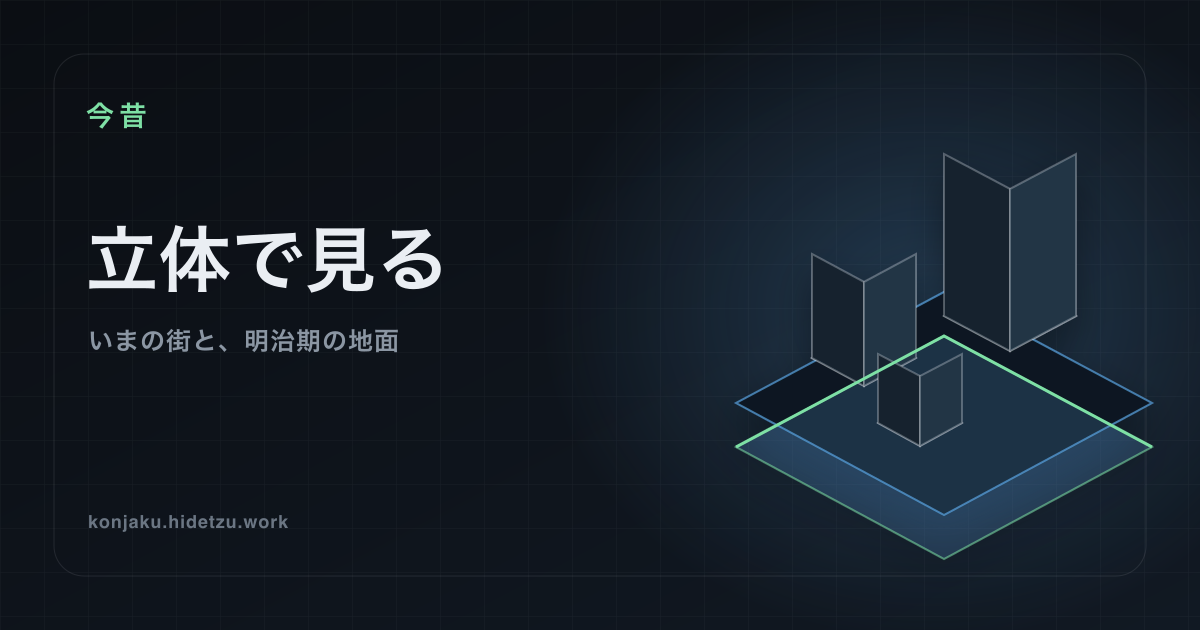
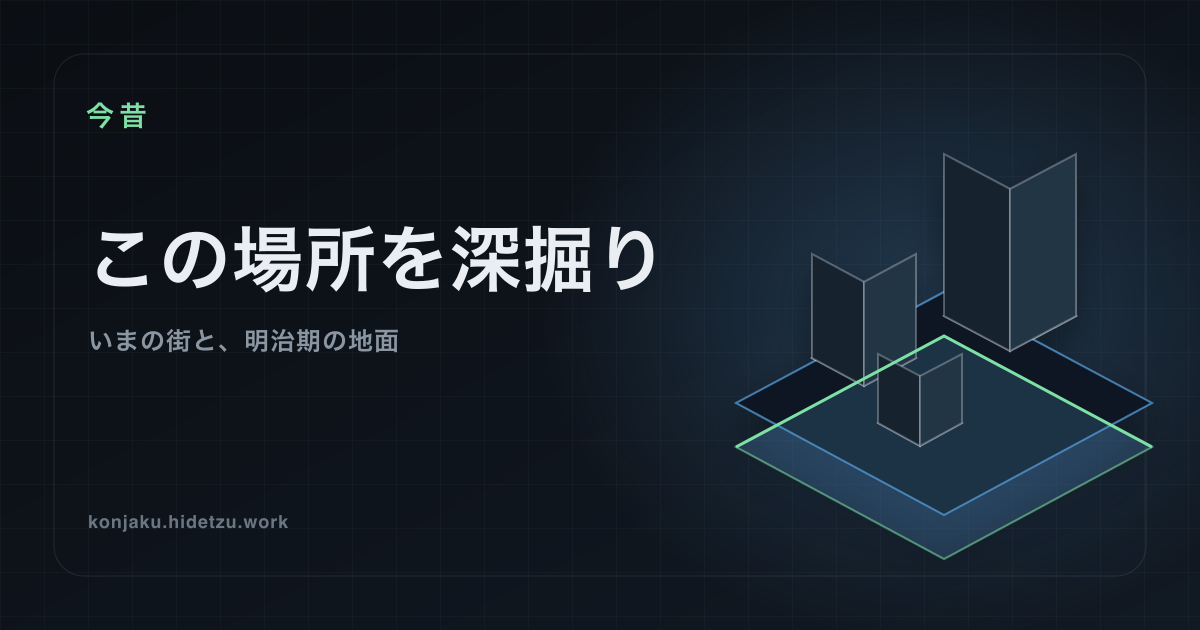
fix(3d): 「まだ用意していない」を「取得できなかった」と言わない (#54)
* fix(3d): 「まだ用意していない」を「取得できなかった」と言わない

⚠ #53 の前提そのものを直す。オーナー指摘（2026-08-18）:
「下地が無くてもクリックできて、出せない情報は出さない。
  システム側の情報が未登録である、という振る舞いのほうが自然ではないか」。

## 何が起きていたか

`loadBuildingTiles()` が **4 つの別々の理由を全部 null に潰していた**。
受け手はそれを 1 つの文にしていたので、**一度も取り込んでいない名古屋で
「建物データを取得できませんでした（Overpass 混雑）」**と書いていた。

⚠ 利用者役 3 名にスクショだけを見せて聞いた（実在の利用者ではない）:
- **3/3 が「自分の通信のせい」と読んだ。** 2 名は「押し直す／リロードする」
- **3/3 が「まだ用意できていません」なら意味が変わる**と答えた
- **3/3 が「案A（導線を出さない）では機能の存在に気づけない」**と答えた

## 直したもの

- 建物の状態を 4 つに分けた
  用意してある / **まだ用意していない** / 用意はあるが読めない / 索引を読めない
  ⚠ `bldState` に `notyet` を足した。`fail` と混ぜない
- 台帳（#prov）の語彙に「未収録」を足した。「未取得（届いていない）」とは別のこと
- ⚠ **トップの導線は常に出す。#53 の出し分けを戻した。**
  消すと「まだ用意していない」が「この場所には機能そのものが無い」に見える
- ⚠ そのかわり**押す前に**断る（「押して、待たされてから言われるのが最悪」という指摘）
- ⚠ 索引そのものを読めないときは**何も断らない**（取得できなかった ≠ 用意していない）
- Overpass 経路は残した。名古屋で 5,845 件が実際に返った実測があり、消すと出せる
  情報が減る。⚠ ただし**先に「まだ用意していません」と言ってから**問い合わせる

## 掟に 1 行足した（CLAUDE.md §1）

    まだ用意していない  ≠  取得できなかった

⚠ 前者はこちらの都合、後者は相手や回線の都合。利用者にとっては
「押し直すべきか・待つべきか・諦めるべきか」が変わる。

## 検査

静的 133 件（増減なし）／実描画 111→112 件（core 102→103）。
- 「3D の下地が無い場所には、深掘りの導線を出さない」を
  「まだ用意していない場所を、取得できなかったと言わない」へ置き換えた
- 「まだ用意していない場所で、通信のせいにしない」（/peel 側）を足した
⚠ 3 通りにわざと壊して、狙った文言で落ちることを確かめた
  （旧文言に戻す／押す前の断りを消す／導線をまた隠す）。

## ⚠ 残したもの

利用者役 3/3 が「名古屋は 1.7%（水）より **田 97.0%** が主役であるべき」と言った。
⚠ **この PR に入れない。** 判定文の見せ方（案C）と同じ話で、理由が 2 つ混ざる。

* fix(3d): できないことから書き始めず、画面名も「この場所を深掘り」にそろえる

⚠ オーナー指摘 2 件（2026-08-18）と、利用者役 3 名の回答を受けた直し。

## 1. 実装の不具合: 台帳だけ「取得中」のままだった
[…]

Changed region(s): [[0.0617, 0.3619, 0.555, 0.4825]]

diff --git a/public/peel3d.js b/public/peel3d.js
@@ -184,26 +184,42 @@ let blAt=null, blTrunc=false;
 //   ここに書き写すと、**トップが「深掘りできる」と言った場所で、こちらが
 //   Overpass に落ちる**状態を作れてしまう。
 //   ⚠ peel.html が ground.js を peel3d.js より先に読み込んでいる。
+// ⚠ **「答えられなかった」を1つに潰さない**（2026-08-18）。
+//   以前はここが 4 つの別々の理由を全部 `null` で返していた。
+//   受け手はそれを「取得できませんでした（Overpass 混雑）」と1つの文にしていたので、
+//   **一度も取り込んでいない場所で「混雑のせい」と書いていた**（実測: 名古屋）。
+//   利用者役 3/3 が、その文を「自分の通信のせい」と読み、2 名が押し直すと答えた。
+//
+//   ⚠ このリポジトリが何度も直してきた並びに、1 行足りていなかった:
+//       まだ用意していない  ≠  取得できなかった
+//   前者は**こちらの都合**、後者は**相手や回線の都合**。
+//   利用者にとっては「押し直すべきか」が変わるので、意味がまるで違う。
+const BL_OK="ok", BL_ABSENT="absent", BL_UNREACHABLE="unreachable",
+      BL_UNKNOWN="unknown", BL_STALE="stale";
 async function loadBuildingTiles(bbox){
   await KonjakuGround.load();
+  const known=KonjakuGround.hasSync((bbox.w+bbox.e)/2,(bbox.s+bbox.n)/2);
+  // 索引そのものを読めていない。⚠ 「無い」と言わない
+  if(known===null) return { state:BL_UNKNOWN };
   const spec=KonjakuGround.tilesFor(bbox);   // 1枚でも欠けたら null（静的では答えない）
-  if(!spec) return null;
+  if(!spec) return { state:BL_ABSENT };      // ⚠ **未登録**。こちらがまだ用意していない
   const got=await Promise.all(spec.keys.map(k=>{
     const [x,y]=k.split("/");
     const path=spec.tile.replace("{x}",x).replace("{y}",y);
     return fetch(path).then(r=>r.ok?r.json():null).catch(()=>null);
   }));
-  if(got.some(g=>!g)) return null;
+  // 索引は「見た」と言っているのに読めない。⚠ こちらの配信の問題で、未登録ではない
+  if(got.some(g=>!g)) return { state:BL_UNREACHABLE };
   const features=[]; let at=null, truncated=false;
   for(const g of got){
     // ⚠ 詰めた形（現行版）でないものは使わない。GeoJSON のまま配っていた古いファイルが
     //   残っていたら、静かに混ぜるより Overpass の道に落ちたほうがよい
-    if(g.v!==BL_V) return null;
+    if(g.v!==BL_V) return { state:BL_STALE };
     features.push(...unpackBuildings(g));
     if(!at||(g.at&&g.at<at)) at=g.at;      // いちばん古い区画に合わせる
     if(g.truncated) truncated=true;
   }
-  return { features, at, truncated };
+  return { state:BL_OK, features, at, truncated };
 }
 // 詰めた建物を戻す。⚠ 詰める側は scripts/bl-format.mjs。**必ず対で直す**。
 //   片方だけ直すと、建物の形が静かにずれる（画面は何も言わない）。
@@ -719,7 +735,8 @@ async function loadArea(lon,lat,title,opt){
   //   以前は「この範囲に1件も無い」を `feats=null` に潰していたので、
   //   正常に 0 件と確認できた事実が「未取得」に化け、画面は同時に
   //   「建物 0 件を判定しました」「建物を取得中…」「欠落 取得できていない」を出していた。
-  //   状態は area.bldState（loading / ok / fail）が1つだけ持つ
+  //   状態は area.bldState（loading / ok / notyet / fail）が1つだけ持つ
+  //   ⚠ notyet = **こちらがまだ用意していない**。fail = 用意はあるが取れなかった。混ぜない
   //   （掟: 同じ問いに答える実装を2つ持たない。以前は pending と source:"none" の2つで表していた）。
   let feats=null, viaPre=false, bldSource=null;
   // ⚠ まずタイル索引を見る。取り込んであれば Overpass に出ない。
@@ -727,7 +744,10 @@ async function loadArea(lon,lat,title,opt){
   //   索引の単位は z14 で、ev（年つきの事物）とは**別の索引**。潰すと
   //   「建物が見たタイル」が「事物も見た」ことになる。
   const bl=await loadBuildingTiles(bbox);
-  if(bl){
+  // ⚠ **なぜ静的で答えられなかったか**を、最後まで持ち回る。
+  //   ここで捨てると、失敗の文が「混雑のせい」に化ける
+  const blWhy=bl.state;
+  if(bl.state===BL_OK){
     // ⚠ タイルは z14 の全面なので、集計したい範囲より広い。
     //   そのまま数えると「豊洲の建物の◯%」が、豊洲ではない範囲の割合になる。
     //   実測で 99.4% → 40.9% に化けた（隣の街区が混ざったため）。
@@ -750,25 +770,51 @@ async function loadArea(lon,lat,title,opt){
     if(gj?.features){ feats=gj.features; viaPre=true; bldSource="pre"; }
   }
   if(feats===null){
-    statusEl.innerHTML+=`<div style="margin-top:5px">建物を取得中…</div>`;
+    // ⚠ **未登録なら、先にそう言う。**待たせてから「取れなかった」と言うのが、
+    //   いちばんがっかりする（利用者役の指摘 2026-08-18）。
+    //   ⚠ そのうえで問い合わせは行う。名古屋で 5,845 件が実際に返った実測があり、
+    //     やめると出せる情報が減る。ただし**先に言ってから**行く。
+    statusEl.innerHTML+=blWhy===BL_ABSENT
+      ? `<div style="margin-top:5px"><b>この場所の建物データは、まだ用意できていません。</b></div>`
+      : `<div style="margin-top:5px">建物を取得中…</div>`;
+    const line=statusEl.querySelector("div:last-of-type");
     const els=await fetchBuildings(bbox,(m)=>{
       // ⚠ 何を待っていて、**駄目だったらどうなるか**を先に言う。
       //   黙って待たせると、止まっているのか動いているのか分からない
-      statusEl.querySelector("div").textContent=
-        m+"（最大20秒。取れなければ水域と写真だけで表示します）";
+      line.textContent=(blWhy===BL_ABSENT?"この場所の建物データは、まだ用意できていません。":"")
+        +m+"（最大20秒。取れなければ水域と写真だけで表示します）";
     });
     if(els){ feats=toGeoJSON(els).features; bldSource="overpass"; }
   }
 
   if(feats===null){
     map.getSource("bld").setData({type:"FeatureCollection",features:[]});
+    // ⚠ **理由ごとに違う文を出す。**「まだ用意していない」を「取得できませんでした」と
+    //   言わない（利用者役 3/3 が後者を「自分の通信のせい」と読んだ）。
+    const notYet=blWhy===BL_ABSENT;
     area={ title, total:0, wet:0, classified:0, unread:0, counts:{}, dated:0,
-      waterRatio:w.ratio, waterRead, waterUnread, bldState:"fail",
+      waterRatio:w.ratio, waterRead, waterUnread, bldState:notYet?"notyet":"fail",
       landSummary:summarizeLand(w.classCounts,w.classifiedPixels), buildingLand:null };
-    statusEl.innerHTML=`<span class="err">建物データを取得できませんでした（Overpass 混雑）。</span>
-      <span style="color:var(--ink-dim)">水域と空中写真だけで表示しています。</span> ${retryBtn(lon,lat,title)}`;
+    statusEl.innerHTML=(notYet
+      // ⚠ **⚠ の記号を使わない。**この画面の外（トップ）では ⚠ を「この土地で
+      //   気をつけること」（＝災害リスク）に使っている。在庫の話に同じ印を出すと、
+      //   利用者役 2/3 が「危ない土地の警告か」と読んだ（2026-08-18）。
+      ? `<span class="err">建物ごとの判定は、この場所ではまだ提供していません。</span>
+         <span style="color:var(--ink-dim)">通信の問題ではありません。対応した場所から順に増やしています。
+         現地に建物が無いという意味でもありません。</span>`
+      : blWhy===BL_UNKNOWN
+      ? `<span class="err">建物データを取得できませんでした。</span>
+         <span style="color:var(--ink-dim)">用意してあるかどうかも確かめられていません。</span>`
+      : `<span class="err">建物データを取得できませんでした。</span>
+         <span style="color:var(--ink-dim)">用意はしてありますが、いま読めていません。</span>`)
+      + `<span style="color:var(--ink-dim)">水域と空中写真だけで表示しています。</span> ${retryBtn(lon,lat,title)}`;
     wireRetry(lon,lat,title);
-    showResult(); return;
+    // ⚠ **台帳（#prov）も組み直す。** ここで render() を呼んでいなかったので、
+    //   台帳だけ「未取得 建物データを**取得中**／まだ**届いていない**だけで」のまま残っていた。
+    //   利用者役 3/3 が、その 2 語を見て**自分の通信を疑った**（2026-08-18）。
+    //   上の文が「まだ用意できていません」と言っているのに、下の台帳が
+    //   「取得中」と言う。**同じ画面で主語が食い違っていた。**
+    showResult(); render(); return;
   }
 
   const gj={type:"FeatureCollection",features:feats};
@@ -913,9 +959,12 @@ function landVerdict(){
 // 面積比を出している理由。⚠ HUD（#land）と情報パネル（#heroCap）が同じ文を出すので、
 //   **ここ1か所**で作る（掟: 同じ問いに答える実装を2つ持たない。
 //   以前は2か所に同じ三項演算子が書いてあり、片方だけ直すと同じ画面で言うことが食い違った）。
+// ⚠ 「まだ用意していない」と「取れなかった」を書き分ける（2026-08-18）。
+//   以前は両方「建物が取れなかったため」で、利用者役 3/3 が自分の通信を疑った。
 const bldWhyArea=(bldState)=>
   bldState==="loading" ? "建物を取得中。揃うと建物ごとの割合になる"
   : bldState==="ok"    ? "OSM に登録された建物が 0 件のため、面積比で出している"
+  : bldState==="notyet"? "建物ごとの判定は、この場所ではまだ提供していません。範囲全体の面積で出しています"
                        : "建物が取れなかったため、面積比で出している";
 
 const landEl=document.getElementById("land");
@@ -1034,6 +1083,7 @@ function showResult(){
     : `<div class="hint">${
         area.bldState==="loading" ? "建物を取得中…"
         : area.bldState==="ok"    ? "OSM に登録された建物は 0 件です"
+        : area.bldState==="notyet"? "建物ごとの判定は、この場所ではまだ提供していません（通信の問題ではありません）"
                                   : "建物データを取得できませんでした（上の再試行から取り直せます）"}</div>`;
 }
 
@@ -1340,6 +1390,16 @@ function render(){
   if(!area || area.bldState==="loading")
     rows.push(`<div class="prov no"><span class="t">未取得</span>建物データを<b>取得中</b>
       <span class="d">まだ届いていないだけで、この範囲の建物の有無は分かっていない</span></div>`);
+  else if(area.bldState==="notyet")
+    // ⚠ 台帳の語彙に「未対応」を足した（2026-08-18）。
+    //   「未取得（＝届いていない）」と**こちらがまだ対応していない**は別のこと。
+    // ⚠ **進行形を使わない。**「取得中」「届いていない」は、利用者役 3/3 が
+    //   そろって**自分の通信の話**として読んだ。今この瞬間に動いている感じが出るため。
+    // ⚠ **「通信の問題ではありません」と言い切る。**野暮でも書く。
+    //   「毎回まず電波を疑う人間には、この一言がいちばん効く」（利用者役）。
+    rows.push(`<div class="prov no"><span class="t">未対応</span>建物ごとの判定は、<b>この場所ではまだ提供していません</b>
+      <span class="d">通信の問題ではありません。対応した場所から順に増やしています。
+      現地に建物が無いという意味でもありません</span></div>`);
   else if(area.bldState==="fail")
     rows.push(`<div class="prov no"><span class="t">未取得</span>建物データを<b>取得できていない</b>
       <span class="d">届いていないだけで、この範囲の建物の有無は分かっていない</span></div>`);

diff --git a/public/index.html b/public/index.html
@@ -2715,17 +2715,31 @@ function ownLenses(p,facts){
   //     `{id:"peel"` から 200 字以内で `}` を探すので、間にコメントを挟むと読めなくなる
   //     （実際に一度落とした。掟: 検査が読む場所には、コメントを割り込ませない）。
   return [
-    // ⚠ **下地が無い場所では出さない。**（掟: 押しても何も起きない導線を置かない）
-    //   実測 2026-08-18: 取り込んであるのは z14 タイル 87 枚・7 かたまり。
-    //   そこから外れると /peel は Overpass に落ち、**出るか出ないかが相手次第**になる
-    //   （名古屋で 8 秒・5,845 件が返った回もあれば、504／無応答が常態という実測もある）。
+    // ⚠ **下地が無くても出す。押せる。**（2026-08-18。一度「出さない」にして戻した）
+    //   出さないと「**まだ用意していない**」が「**この場所には機能そのものが無い**」に見える。
+    //   利用者役 3/3 が「機能があること自体に気づけない」と答えた。
+    //   ⚠ 「知らないことは回復できないが、がっかりは回復できる」（利用者役の言葉）。
+    //
+    // ⚠ ただし**押す前に**言う。押して、地図が立ち上がって、待たされてから
+    //   「取れなかった」と言われるのが、いちばんがっかりする（利用者役の指摘）。
     //   ⚠ 判定は ground.js の1か所。ここで数え直さない。
-    //   ⚠ **読めなかった（null）ときは出す。**「索引を取得できなかった」を
-    //     「下地が無い」と言わない（掟: 取得できなかった ≠ 存在しなかった）。
-    ...(KonjakuGround.hasSync(p.lon,p.lat)===false ? [] : [
-    {id:"peel",ic:"🌊",label:"この場所を深掘り",sub:"いまの街が、明治期の地面のどこに立っているか",tag:"own",
+    //   ⚠ 読めなかった（null）ときは**何も断らない**。索引を取得できなかっただけで、
+    //     用意していないとは限らない（掟: 取得できなかった ≠ 存在しなかった）。
+    {id:"peel",ic:"🌊",label:"この場所を深掘り",tag:"own",
+     // ⚠ **できないことの通知ではなく、できることの案内にする**（2026-08-18）。
+     //   利用者役 3/3 が、⚠ 付きで「用意できていません」から始まる案を最下位にした。
+     //   「押す前に断られた」「他の行が『調べる』と誘っている中でここだけ壊れて見える」
+     //   「『根拠あり』バッジと『ありません』が同じ行にあってちぐはぐ」。
+     // ⚠ **⚠ の記号を使わない。**すぐ上の「この土地で気をつけること」（災害リスク）に
+     //   同じ印を使っている。在庫の話に出すと「危ない土地の警告」に読まれた（2/3）。
+     // ⚠ **「順に増やしています」。**「用意できた場所から」は止まって聞こえる、
+     //   と 2/3 が言った。また来る理由を残す。
+     // ⚠ 375px で 3 行になる。2/3 が「許容範囲」と答えた（上下の行も 2 行に折り返している）。
+     sub:KonjakuGround.hasSync(p.lon,p.lat)===false
+       ? "空中写真を年代で切りかえて、明治期の地面と見くらべる（建物ごとの判定は、対応した場所から順に増やしています）"
+       : "いまの街が、明治期の地面のどこに立っているか",
      kw:["3d","さかのぼる","剥がす","埋立","水","動画","戻す","地盤","昔","むかし","歴史","明治","過去","立体","深掘り"],
-     href:`./peel?q=${enc}&ll=${ll}${eraParam()}`}]),
+     href:`./peel?q=${enc}&ll=${ll}${eraParam()}`},
     // ⚠ 「1936年〜」を固定で書いていた。バッジは実測した最古の年代を出すので、
     //   新潟では「1945–50年から見られる」の真下に「1936年〜」が並んでいた。
     //   根拠を売りにしていて、同じ画面に2つの数字を出していた。
@@ -3160,12 +3174,13 @@ async function openPlace(lon,lat,title,opt){
     //   帯に9コマ並び、脚注に「残っていた空中写真は 7 年代（7 年代中）」と書き、
     //   バッジにも年代が出ている状態で、根拠に4つ目の言い方を足すと、
     //   利用者は「どれが答えなのか」を数え直すことになる。
-    // ⚠ 行動一覧と**同じ判定**で出し分ける（ground.js の1か所）。
-    //   片方だけ出すと、一覧に無いのに根拠カードからは行ける、が起きる。
-    (KonjakuGround.hasSync(current?.lon,current?.lat)===false ? ""
-      : `<a class="card" href="./peel?q=${enc}&ll=${ll}${eraParam()}"><span class="arrow">→</span>
+    // ⚠ 行動一覧と**同じ判定・同じ言い方**にする（ground.js の1か所）。
+    //   片方だけ断ると、一覧と根拠カードで言うことが変わる。
+    `<a class="card" href="./peel?q=${enc}&ll=${ll}${eraParam()}"><span class="arrow">→</span>
       <div class="t">この場所を深掘り</div>
-      <div class="d">いまの街が、明治期の地面のどこに立っているか</div></a>`);
+      <div class="d">${KonjakuGround.hasSync(current?.lon,current?.lat)===false
+        ? "空中写真を年代で切りかえて、明治期の地面と見くらべる（建物ごとの判定は、対応した場所から順に増やしています）"
+        : "いまの街が、明治期の地面のどこに立っているか"}</div></a>`;
   // 再試行はカード側にも置く。根拠を開いた人がそこで詰まらないように。
   own.querySelectorAll(".retry").forEach((b)=>{
     b.onclick=()=>{ const c=current; if(c) openPlace(c.lon,c.lat,c.title); };

diff --git a/public/peel.html b/public/peel.html
@@ -8,21 +8,21 @@
      「地名も座標も送らない」と画面に書いている以上、ここを塞がないとその記述が嘘になる。
      実測で /t への referer に ?q= と ?ll= が乗っていた（掟: 地名も座標も送らない） -->
 <meta name="referrer" content="no-referrer">
-<title>立体で見る — いまの街と、明治期の地面</title>
+<title>この場所を深掘り — いまの街と、明治期の地面</title>
 <meta name="description" content="いまの街を立体で見て、建物1件ずつの足元を明治期の低湿地データで判定している。押すと、その建物の足元が分かる。">
 <meta property="og:type" content="website">
 <meta property="og:site_name" content="今昔">
-<meta property="og:title" content="立体で見る — いまの街と、明治期の地面">
+<meta property="og:title" content="この場所を深掘り — いまの街と、明治期の地面">
 <meta property="og:description" content="いまの街を立体で見て、建物1件ずつの足元を明治期の低湿地データで判定している。押すと、その建物の足元が分かる。">
 <meta property="og:url" content="https://konjaku.hidetzu.work/peel">
 <meta property="og:image" content="https://konjaku.hidetzu.work/ogp-peel.png">
-<meta property="og:image:alt" content="立体で見る — いまの街と、明治期の地面">
+<meta property="og:image:alt" content="この場所を深掘り — いまの街と、明治期の地面">
 <meta property="og:locale" content="ja_JP">
 <meta name="twitter:card" content="summary_large_image">
-<meta name="twitter:title" content="立体で見る — いまの街と、明治期の地面">
+<meta name="twitter:title" content="この場所を深掘り — いまの街と、明治期の地面">
 <meta name="twitter:description" content="いまの街を立体で見て、建物1件ずつの足元を明治期の低湿地データで判定している。押すと、その建物の足元が分かる。">
 <meta name="twitter:image" content="https://konjaku.hidetzu.work/ogp-peel.png">
-<meta name="twitter:image:alt" content="立体で見る — いまの街と、明治期の地面">
+<meta name="twitter:image:alt" content="この場所を深掘り — いまの街と、明治期の地面">
 <link rel="icon" href="/favicon.svg" type="image/svg+xml">
 <link rel="manifest" href="/manifest.webmanifest">
 <meta name="theme-color" content="#0b0e13">
@@ -435,7 +435,11 @@
        建設年が分かる 0.30%（10街40万件の実測）しか支えていない。約束をやめる。
        ⚠ 「（3D）」も出さない。利用者役のエージェント3体は「もっと見る」「立体で見る」「本当か確かめる」と言い、
        誰も「2D/3D」と言わなかった（利用者役のエージェントによる検証 2026-08-14）。 -->
-  <h1>立体で見る</h1>
+  <!-- ⚠ 2026-08-18: 「立体で見る」から「この場所を深掘り」へ。
+       トップの導線だけ変えて画面名は据え置いていたが、着いた先の名前が違うと
+       押した人が同じ場所に着いたか分からない。⚠ OGP 画像・og:title・SPEC も同時に直す
+       （名乗りが外へ出る面のあいだで割れないこと。npm run check が見ている）。 -->
+  <h1>この場所を深掘り</h1>
   <p class="lead">いまの街が、明治期の地面のどこに立っているか</p>
 
   <!-- ⚠ **ここに検索欄・クイック地点・現在地を置かない**（2026-08-18 方針）。

diff --git a/public/sw.js b/public/sw.js
@@ -18,7 +18,7 @@
 //   一度来た人に古い `/` と `/share.js` が出続けた。しかもローカルは初回訪問なので
 //   絶対に再現せず、CI も全部通る。流入を測り始める直前に一度踏みかけた。
 //   なぜハッシュにしたかの全文は scripts/sw-hash.mjs の頭にある。
-const VERSION = "konjaku-28c8f202";
+const VERSION = "konjaku-05bb6549";
 // ⚠ addAll は1件でも 404 すると install ごと reject し、キャッシュが丸ごと死ぬ。
 //   この一覧を足し引きしたときも版は変わる（一覧そのものもハッシュの材料に入れてある）。
 const SHELL = [

diff --git a/CLAUDE.md b/CLAUDE.md
@@ -113,9 +113,40 @@ Overpass の実行時依存拡大 / 大規模な 3D エンジン交換。
   「現在、資料を確認できません」のように、人が読める言葉にする
 - **機能名は、内部構造ではなく利用者の問いから決める。**
   `Historical View` `3D Mode` `Evidence` ではなく、
-  「昔を見る」「立体で見る」「なぜそう言える？」
+  「昔を見る」「この場所を深掘り」「なぜそう言える？」
+  （⚠ 2026-08-18 に「立体で見る」→「この場所を深掘り」。見せ方の名前より、
+  **その場所について何をするか**の名前にした）
 - **一括置換しない。** UI の文言を変えるとき、設計記録・ADR・過去の議論まで
   機械的に置換しない。対象は**いまの利用者向け UI** を優先する
+
+### 4-1. できないことから書き始めない
+
+⚠ **隠すのではない。** §1 が上位で、**限界は必ず書く**。
+変えるのは**順番・主語・時制**であって、書くか書かないかではない。
+
+- **先に「ここで何ができるか」を言う。** できないことは、**理由**と
+  **代わりにできること**を添えて、そのあとに言う
+- **進行形を、状態の説明に使わない。** 「取得中」「届いていない」は、
+  いま自分の端末で起きていることに読める
+- **こちらの都合を、相手や回線の都合のように言わない。**
+  こちらが用意していないことを「取得できませんでした」と言わない。
+  ⚠ 利用者にとっては**押し直すべきか・待つべきか・諦めるべきか**が変わる
+- **`⚠` を、対応状況や在庫に使わない。** `⚠` は危険（災害リスク）に使っている。
+  同じ印を在庫の話に出すと「危ない土地の警告」に読まれる
+- **止まって聞こえる言い方をしない。** 「用意できた場所から」より
+  「**対応した場所から順に増やしています**」。また来る理由を残す
+
+実際に直した例（2026-08-18。⚠ 利用者役 3 名に画面だけを見せて確かめた。実在の利用者ではない）。
+
+| やめた | かわりに |
+|---|---|
+| `⚠ この場所の建物データはまだ用意できていません` | `空中写真を年代で切りかえて、明治期の地面と見くらべる（建物ごとの判定は、対応した場所から順に増やしています）` |
+| `建物データを取得中` ／ `まだ届いていないだけで` | `建物ごとの判定は、この場所ではまだ提供していません` |
+| `取得できませんでした（Overpass 混雑）` | `通信の問題ではありません。対応した場所から順に増やしています` |
+
+⚠ **左の言い方は、3/3 が「自分の通信のせい」と読んだ。** 2 名は「押し直す」と答えた。
+⚠ 一方で「**現地に建物が無いという意味でもありません**」は**消さない**。
+やわらげた結果、「無い」と読まれては §1 に反する。
 
 ---
 
